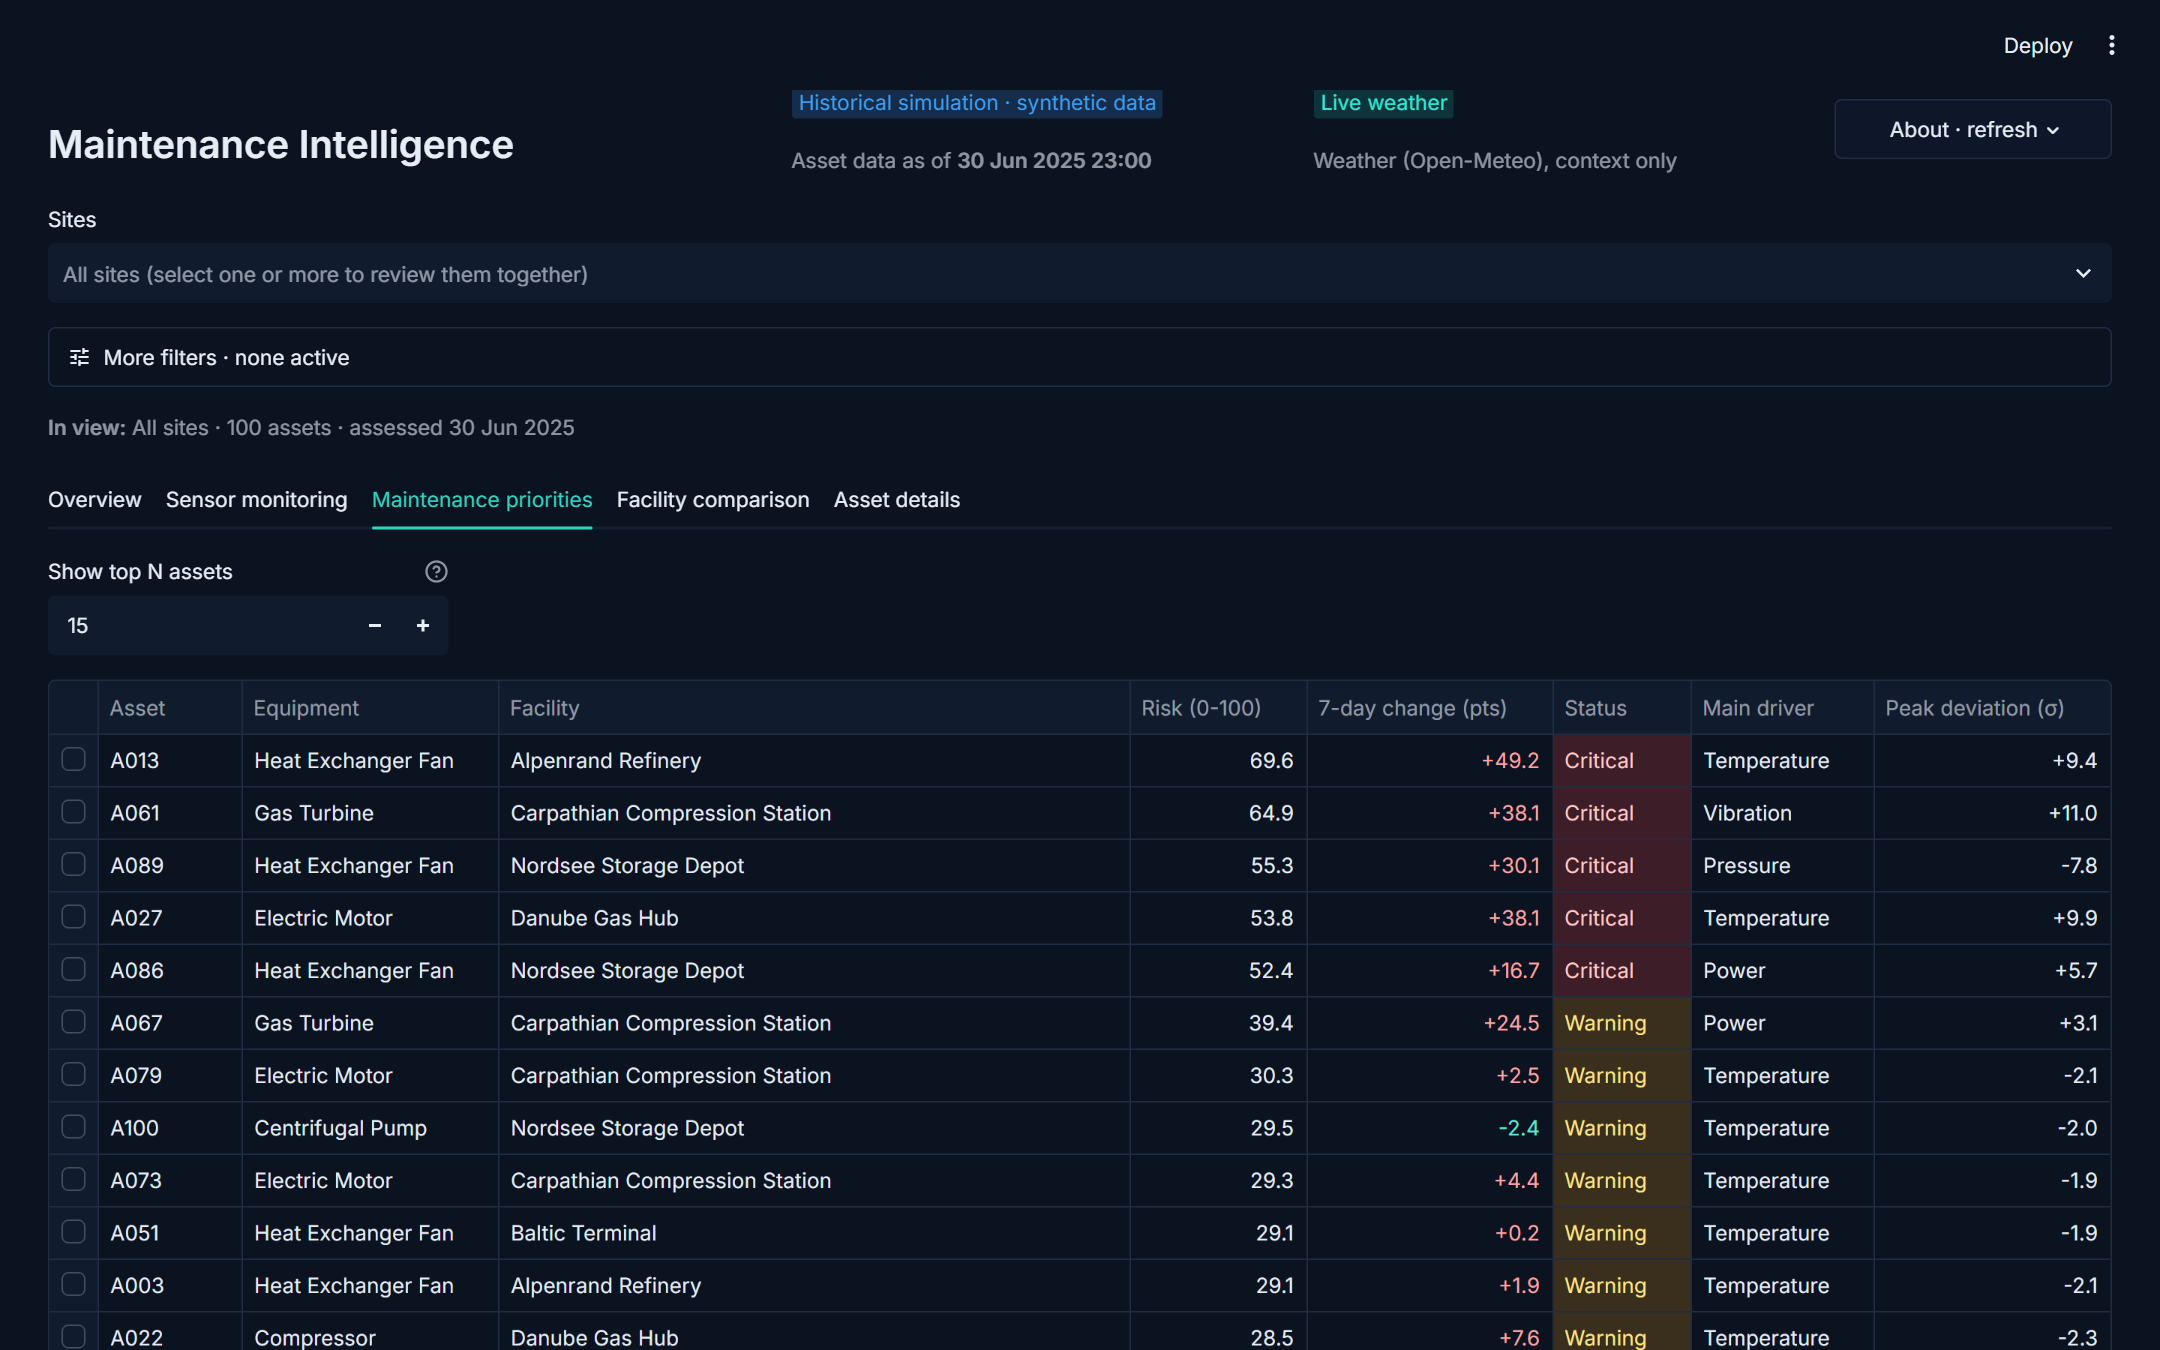
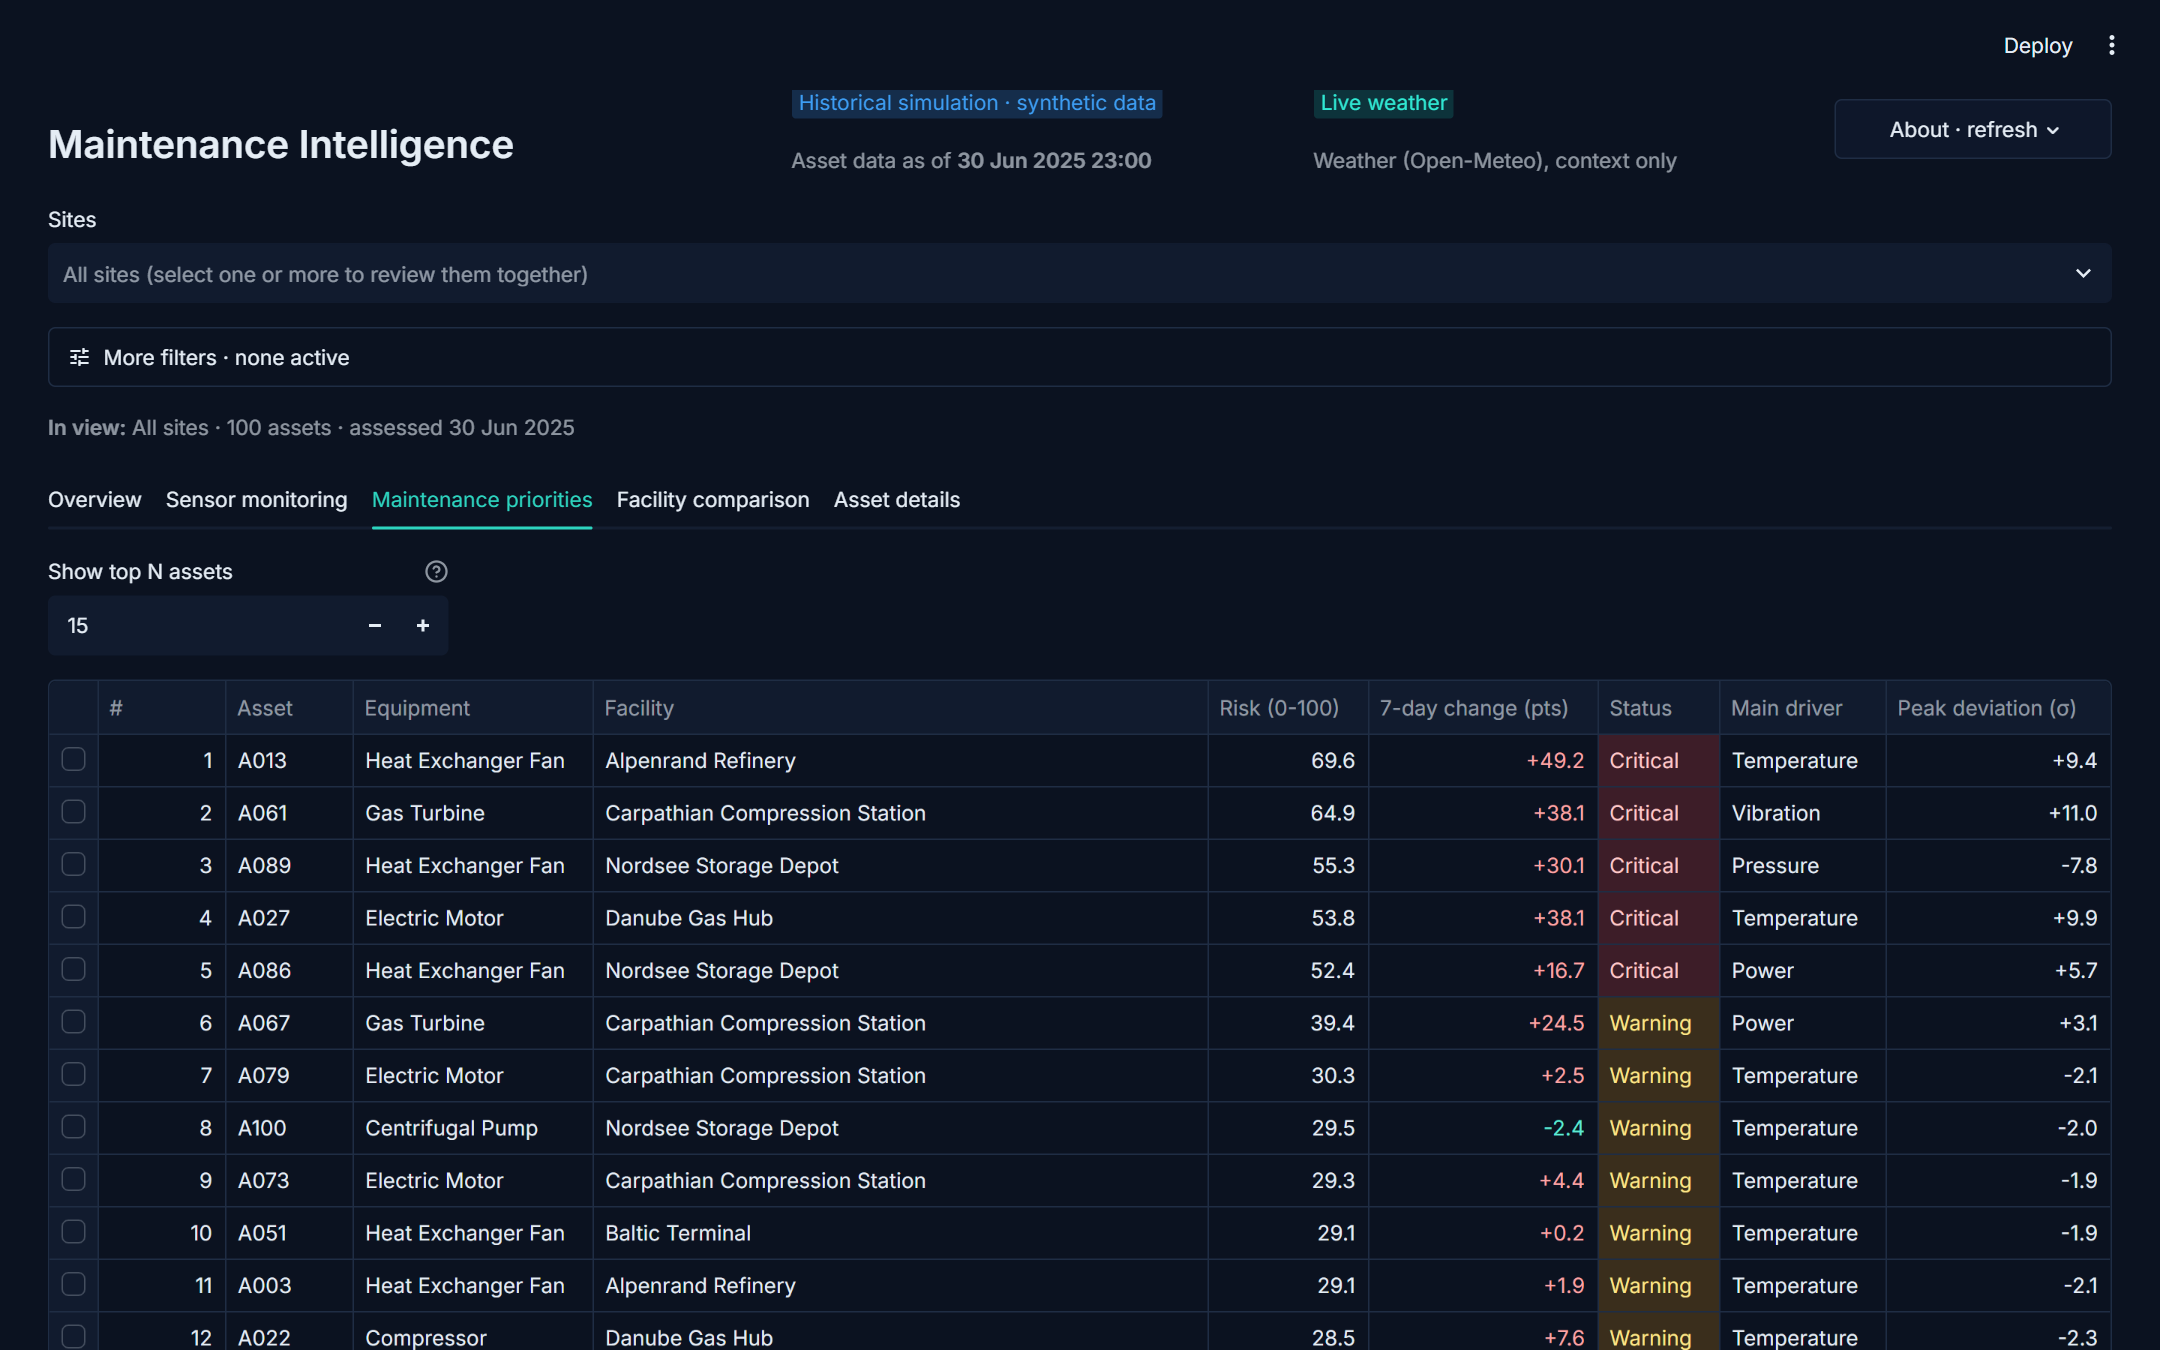
Final ship fixes: flagged-only cards, honest empty states, ranked priorities, link notices

diff --git a/app.py b/app.py
@@ -173,6 +173,8 @@ if "seeded_asset" not in ss:
     ss.seeded_asset = True
     if qp.get("asset") in set(T.asset_id):
         ss.d = ss.m = qp["asset"]
+    elif qp.get("asset"):
+        ss.asset_notice = True  # shared link points to an asset outside the current selection
 for k in ("d", "m"):
     if ss.get(k) not in set(T.asset_id):
         ss.pop(k, None)  # asset left the current selection: fall back to the highest-risk one
@@ -194,11 +196,16 @@ def fmt_asset(x):
 
 sites_txt = "All sites" if T.facility.nunique() == len(fac) else ", ".join(sorted(T.facility.unique()))
 st.caption(f"**In view:** {sites_txt} · {len(T)} assets · assessed {as_of:%d %b %Y}")
+if ss.pop("asset_notice", False):
+    st.info("The asset in this link is not in the current selection, so the highest-risk asset is shown instead.")
 tabs = st.tabs(["Overview", "Sensor monitoring", "Maintenance priorities", "Facility comparison", "Asset details"], key="tab", bind="query-params")
 
 with tabs[0]:
     st.subheader("Inspect next")
-    for col, r in zip(st.columns(3), T.head(3).itertuples()):
+    flagged = T[T.level != "Low"].head(3)  # only assets that actually need attention
+    if flagged.empty:
+        st.success("No assets are flagged in this view: every asset is Normal (risk 25 or less).")
+    for col, r in zip(st.columns(3), flagged.itertuples()):
         with col.container(border=True, gap="xsmall"):
             st.badge(STATUS[r.level], color={"High": "red", "Medium": "orange", "Low": "green"}[r.level])
             st.markdown(f"**{r.asset_id} · {r.asset_type}**")
@@ -208,7 +215,7 @@ with tabs[0]:
             left, right = st.columns(2)
             left.caption("Main driver")
             left.markdown(f"**{r.driver_label} {r.peak_z:+.1f}σ**")
-            right.caption("Hours alerted")
+            right.caption("Hours alerted (last 7 d)")
             right.markdown(f"**{r.alert_share:.0%}**")
             st.button("Investigate", key=f"go_{r.asset_id}", on_click=go, args=(r.asset_id,), icon=":material/arrow_forward:", width="stretch")
 
@@ -252,9 +259,12 @@ with tabs[0]:
         st.subheader("Assets needing attention")
         nc = T.assign(short=T.facility.str.split().str[0]).groupby(["short", "status"]).size().reset_index(name="assets")
         nc = nc[nc.status != "Normal"]
-        show(px.bar(nc, x="assets", y="short", color="status", orientation="h", color_discrete_map={"Critical": COLORS["High"], "Warning": COLORS["Medium"]},
-                    category_orders={"status": ["Critical", "Warning"]}, labels={"assets": "Assets", "short": "", "status": ""})
-             .update_xaxes(dtick=1).update_layout(height=H, margin=dict(l=0, r=10, t=0, b=0), legend=dict(orientation="h", y=1.08)), alt="Number of critical and warning assets per facility")
+        if nc.empty:
+            st.caption("No critical or warning assets in this view.")
+        else:
+            show(px.bar(nc, x="assets", y="short", color="status", orientation="h", color_discrete_map={"Critical": COLORS["High"], "Warning": COLORS["Medium"]},
+                        category_orders={"status": ["Critical", "Warning"]}, labels={"assets": "Assets", "short": "", "status": ""})
+                 .update_xaxes(dtick=1).update_layout(height=H, margin=dict(l=0, r=10, t=0, b=0), legend=dict(orientation="h", y=1.08)), alt="Number of critical and warning assets per facility")
     with c3.container(border=True):
         st.subheader("Risk by facility × asset type")
         hm = T.pivot_table(index="facility", columns="asset_type", values="risk", aggfunc="mean").round(0).rename(index=lambda s: s.split()[0], columns=lambda s: s.split()[-1])
@@ -295,12 +305,14 @@ with tabs[1]:
     s = c[1].selectbox("Sensor", ["All"] + SENSORS, index=1 + SENSORS.index(main_sensor), format_func=lambda x: x if x == "All" else LBL[x])
     truth = c[2].toggle("Show simulated fault periods", False, help="Orange bands mark the faults injected into the synthetic data. They are evaluation labels, not model output.")
     win = R[(R.asset_id == a) & R.timestamp.between(as_of - pd.Timedelta(days=period), as_of)]
-    if win.empty or win[SENSORS].isna().all(axis=None):
+    no_data = win.empty or win[SENSORS].isna().all(axis=None)
+    if no_data:
         st.warning("No sensor readings are available for this asset and period, so its condition cannot be assessed here.")
     elif not win.running.any():
         st.info("This asset was on standby during this period. Low readings do not necessarily indicate a fault.")
     st.caption(f"{(as_of - pd.Timedelta(days=period)):%d %b} to {as_of:%d %b %Y}. Red dots are hours when the model flagged the asset as a whole (all four sensors together), so they appear on every chart, even where that sensor looks normal.")
-    show(sensor_fig(a, SENSORS if s == "All" else [s], as_of - pd.Timedelta(days=period), as_of, truth), alt=f"Sensor readings for {a} over the last {period} days with model alerts")
+    if not no_data:
+        show(sensor_fig(a, SENSORS if s == "All" else [s], as_of - pd.Timedelta(days=period), as_of, truth), alt=f"Sensor readings for {a} over the last {period} days with model alerts")
     st.caption("Standby hours read low.")
     ss["ovl"] = [x for x in ss.get("ovl", []) if x in set(T.asset_id) and x != a]
     also = st.multiselect("Overlay other assets on one sensor (optional)", [x for x in T.asset_id if x != a], max_selections=4, format_func=fmt_asset, key="ovl",
@@ -315,15 +327,15 @@ with tabs[1]:
 
 with tabs[2]:
     n = int(st.columns([1, 4])[0].number_input("Show top N assets", 1, len(T), min(15, len(T)), help=f"Shows the N highest-risk assets after filtering ({len(T)} match). Type a number or use +/-."))
-    top = T.head(n)
-    cols = ["asset_id", "asset_type", "facility", "risk", "change", "status", "driver_label", "peak_z"]
+    top = T.head(n).reset_index(drop=True).assign(rank=lambda d: d.index + 1)
+    cols = ["rank", "asset_id", "asset_type", "facility", "risk", "change", "status", "driver_label", "peak_z"]
     ss["prio2_ids"] = list(top.asset_id)
-    table(tint(top[cols].reset_index(drop=True), ["status"]), width="stretch", hide_index=True, height=min(740, 38 + 35 * n), on_select=lambda: open_asset("prio2"), selection_mode="single-row", key="prio2", alt="Maintenance priorities with driver, deviation, risk and severity. Select a row to open the asset.", column_config={
-        "asset_id": st.column_config.TextColumn("Asset", width="small"), "asset_type": "Equipment", "facility": st.column_config.TextColumn("Facility", width="large"), "status": "Status",
+    table(tint(top[cols], ["status"]), width="stretch", hide_index=True, height=min(740, 38 + 35 * n), on_select=lambda: open_asset("prio2"), selection_mode="single-row", key="prio2", alt="Maintenance priorities with driver, deviation, risk and severity. Select a row to open the asset.", column_config={
+        "rank": st.column_config.NumberColumn("#", width="small"), "asset_id": st.column_config.TextColumn("Asset", width="small"), "asset_type": "Equipment", "facility": st.column_config.TextColumn("Facility", width="large"), "status": "Status",
         "driver_label": "Main driver", "peak_z": st.column_config.NumberColumn("Peak deviation (σ)", format="%+.1f"), "change": st.column_config.NumberColumn("7-day change (pts)", format="%+.1f"),
         "explanation": st.column_config.TextColumn("Why", width="large"),
         "risk": st.column_config.NumberColumn("Risk (0-100)", format="%.1f")})
-    with st.expander("Why each asset is flagged", icon=":material/notes:"):
+    with st.expander("Why assets received these scores", icon=":material/notes:"):
         st.markdown("\n".join(f"- **{r.asset_id}** ({r.status}): {r.explanation}" for r in top.itertuples()))
     st.download_button("Download ranking (CSV)", top[cols + ["criticality", "explanation"]].to_csv(index=False), f"maintenance_priorities_{as_of:%Y-%m-%d}.csv")
     st.caption("Select a row to open that asset in Asset details.")
@@ -338,9 +350,13 @@ with tabs[3]:
     with a.container(border=True):
         st.subheader("Assets needing attention by facility")
         nc = T.groupby(["facility", "status"]).size().reset_index(name="assets")
-        show(px.bar(nc[nc.status != "Normal"], x="assets", y="facility", color="status", orientation="h", text_auto=True,
-                    color_discrete_map={"Critical": COLORS["High"], "Warning": COLORS["Medium"]}, category_orders={"status": ["Critical", "Warning"]}, labels={"assets": "Assets", "facility": "", "status": ""})
-             .update_traces(textfont_color="#0b1220").update_xaxes(dtick=1).update_layout(height=H, margin=dict(l=0, r=10, t=0, b=0), legend=dict(orientation="h", y=1.08)), alt="Number of critical and warning assets per facility")
+        nc = nc[nc.status != "Normal"]
+        if nc.empty:
+            st.caption("No critical or warning assets in this view.")
+        else:
+            show(px.bar(nc, x="assets", y="facility", color="status", orientation="h", text_auto=True,
+                        color_discrete_map={"Critical": COLORS["High"], "Warning": COLORS["Medium"]}, category_orders={"status": ["Critical", "Warning"]}, labels={"assets": "Assets", "facility": "", "status": ""})
+                 .update_traces(textfont_color="#0b1220").update_xaxes(dtick=1).update_layout(height=H, margin=dict(l=0, r=10, t=0, b=0), legend=dict(orientation="h", y=1.08)), alt="Number of critical and warning assets per facility")
     with b.container(border=True):
         st.subheader("Average risk by facility and equipment type")
         pv = T.pivot_table(index="facility", columns="asset_type", values="risk", aggfunc="mean").round(1)
@@ -396,6 +412,7 @@ with tabs[4]:
         st.markdown(f"**Latest reading** (6 h mean to {as_of:%d %b %Y %H:%M}): largest deviation is **{DRV[worst[3:]]} {last[worst]:+.1f}σ**, "
                     f"{'outside' if abs(last[worst]) > 3 else 'within'} the ±3σ normal range. **7-day peak:** {DRV[peak.abs().idxmax()[3:]]} {peak[peak.abs().idxmax()]:+.1f}σ.")
         st.caption("A high peak with a low latest value means the condition has eased since; both high means it is still ongoing. \"Latest\" is the end of the assessed period, not today.")
+    st.caption("Sensor trend: always the last 30 days (the chart window setting applies to Sensor monitoring).")
     show(sensor_fig(a, SENSORS, as_of - pd.Timedelta(days=30), as_of), width="stretch", key="detail_trend")
     st.subheader("Maintenance history")
     mh = D["maint"][D["maint"].asset_id == a].sort_values("date", ascending=False).drop(columns=["asset_id"])

diff --git a/README.md b/README.md
@@ -53,6 +53,7 @@ Both versions are Streamlit apps on the same analysis (`mi/`), so the risk score
 | Inspect next cards | Risk, change and a long semicolon-separated explanation in one block | Risk score and 7-day change on top, one divider, then the evidence as two key figures (main driver with its deviation, hours alerted); the long text moved to Asset details | Scannable in a second; one idea per zone. |
 | Tables | Rank missing, columns in an arbitrary order, change shown without colour | Rank, asset, equipment, site, risk, 7-day change (points, coloured), severity, then driver and peak; the risk formula moved into an expander | Columns follow the decision: what, where, how bad, why. |
 | Choosing an asset | A plain list of IDs, and 'Why flagged' shown even for healthy assets | Each option shows type, site, risk and severity, highest risk first; healthy assets say 'Reading summary (not flagged)'; optional comparison of up to 4 assets in Asset details and overlay of up to 4 assets on one sensor | The assets that need attention are at the top, and several can be reviewed together. |
+| Honest empty and edge states | 'Inspect next' always listed three assets, even if all were Normal; empty charts could crash; a shared link to an unavailable asset silently changed asset | Only flagged assets appear in 'Inspect next', with a clear message when none are; empty charts show a note; an unavailable asset in a link triggers a notice; no chart is drawn without readings; the 7-day and 30-day windows are labelled | The screen never implies a problem that is not there. |
 | Small screens | Status badges wrapped over several lines | Badges stay on one line and stack cleanly on phones | Usable on a phone. |
 
 | Version 1 | Version 2 |
